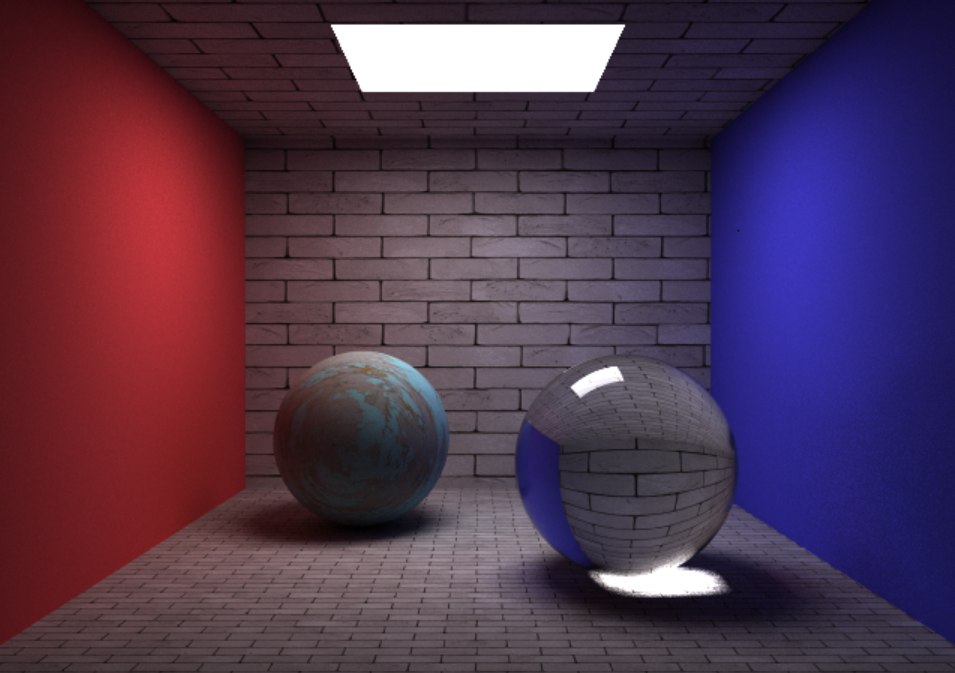
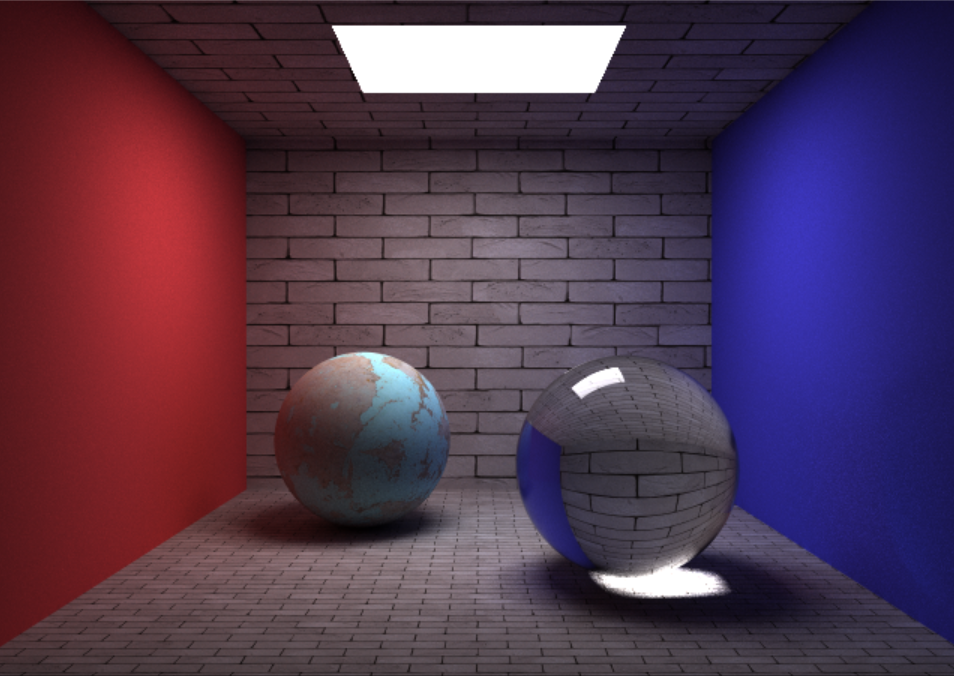
fix: 修复了Texture与Oran-Nayar的bug

diff --git a/texture/texture.py b/texture/texture.py
@@ -33,16 +33,16 @@ class Texture:
         # wrap
         uv = uv - np.array(uv, dtype=np.int32)
         uv[uv < 0] += 1
-        x, y = uv * np.array([[W], [H]], dtype=np.float32)
-        x_int = np.floor(x - 0.5, dtype=np.uint32)
-        y_int = np.floor(y - 0.5, dtype=np.uint32)
-        k1 = (x - x_int - 0.5)[:, None]
-        k2 = (y - y_int - 0.5)[:, None]
-        x_int_1 = np.clip(x_int + 1, a_min=None, a_max=W - 1)
-        y_int_1 = np.clip(y_int + 1, a_min=None, a_max=H - 1)
-        x_int = np.clip(x_int, a_min=0, a_max=None)
-        y_int = np.clip(y_int, a_min=0, a_max=None)
-        c1 = self.image[y_int, x_int] * k1 + self.image[y_int, x_int_1] * (1 - k1)
-        c2 = self.image[y_int_1, x_int] * k1 + self.image[y_int_1, x_int_1] * (1 - k1)
-        ret = (c1 * k2 + c2 * (1 - k2)) / 255
+        x, y = uv * np.array([[W], [H]], dtype=np.float32) - 0.5
+        x_int = np.floor(x, dtype=np.int32)
+        y_int = np.floor(y, dtype=np.int32)
+        k1 = (x - x_int)[:, None]
+        k2 = (y - y_int)[:, None]
+        x_int_1 = x_int + 1 % W
+        y_int_1 = y_int + 1 % H
+        x_int = x_int % W
+        y_int = y_int % H
+        c1 = self.image[y_int, x_int] * (1 - k1) + self.image[y_int, x_int_1] * k1
+        c2 = self.image[y_int_1, x_int] * (1 - k1) + self.image[y_int_1, x_int_1] * k1
+        ret = (c1 * (1 - k2) + c2 * k2) / 255
         return ret.T

diff --git a/primitives/sphere.py b/primitives/sphere.py
@@ -38,7 +38,7 @@ class Sphere(Primitive):
         u = np.arctan2(pos[1, not_inf], pos[0, not_inf]) / (2 * np.pi)
         u[u < 0] += 1
         uv[0, not_inf] = u
-        uv[1, not_inf] = np.arccos(np.clip(pos[2, not_inf] / self.r, a_min=-1, a_max=1))
+        uv[1, not_inf] = np.arccos(np.clip(pos[2, not_inf] / self.r, a_min=-1, a_max=1)) / np.pi
         return t, pos, n, uv
 
     def _intersect_shadow_ray(self, direction: Array, source: Array, min_t: Array, max_t: Array) -> Array:

diff --git a/materials/oren_nayar.py b/materials/oren_nayar.py
@@ -9,7 +9,7 @@ class OrenNayar(Material):
         super().__init__(name, albedo_map)
         self.albedo = np.array([albedo], dtype=np.float32).T
         sigma2 = sigma ** 2
-        self.A = 1 - (sigma2 / (2 * sigma2 + 0.33))
+        self.A = 1 - (sigma2 / 2 * (sigma2 + 0.33))
         self.B = 0.45 * sigma2 / (sigma2 + 0.09)
 
     def _brdf(self, wo: Array, wi: Array) -> Array:
